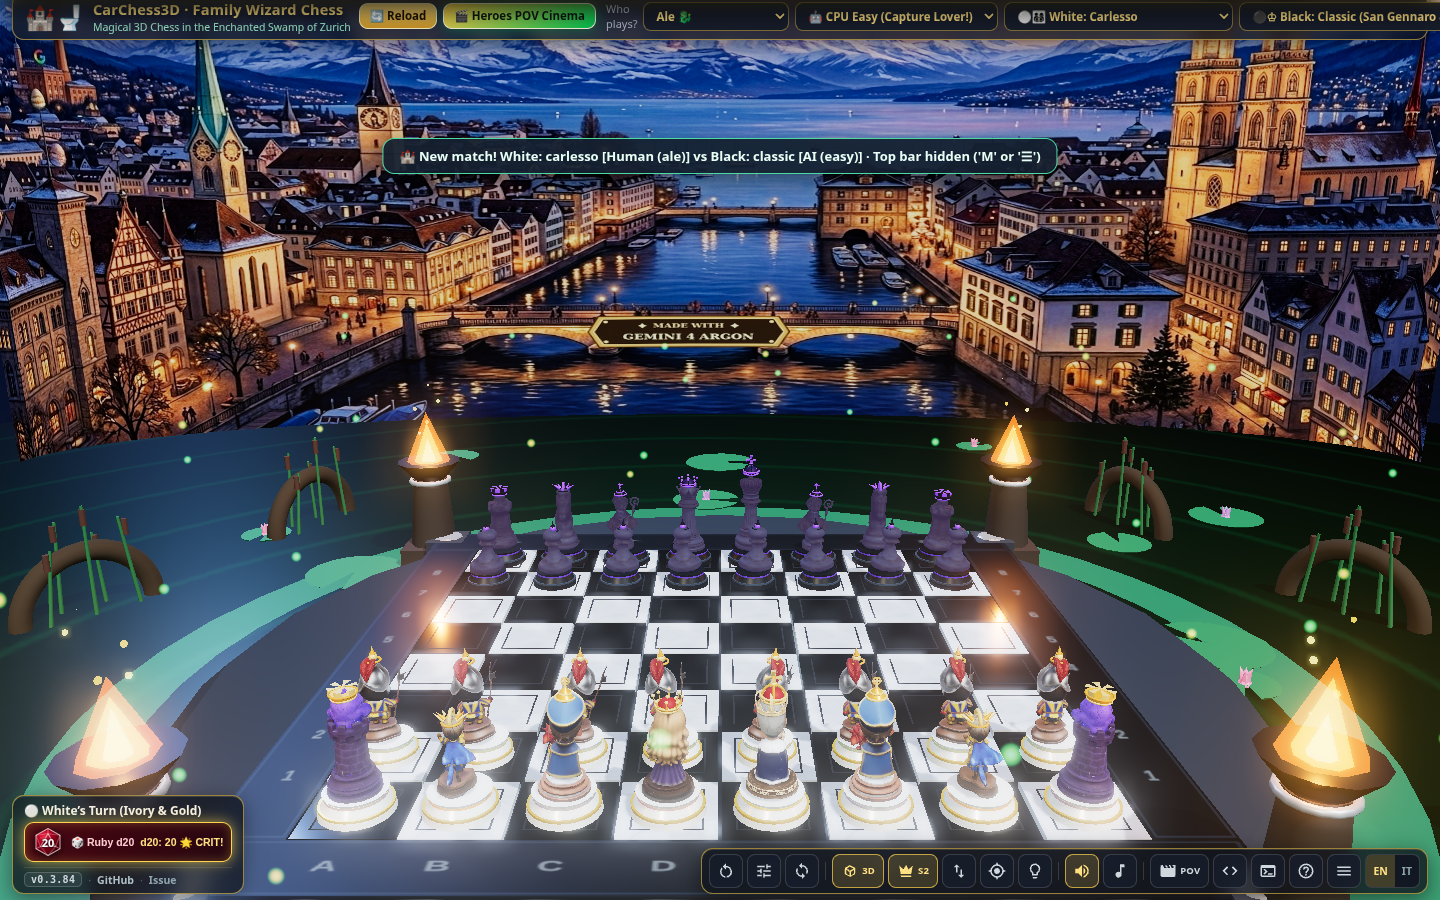
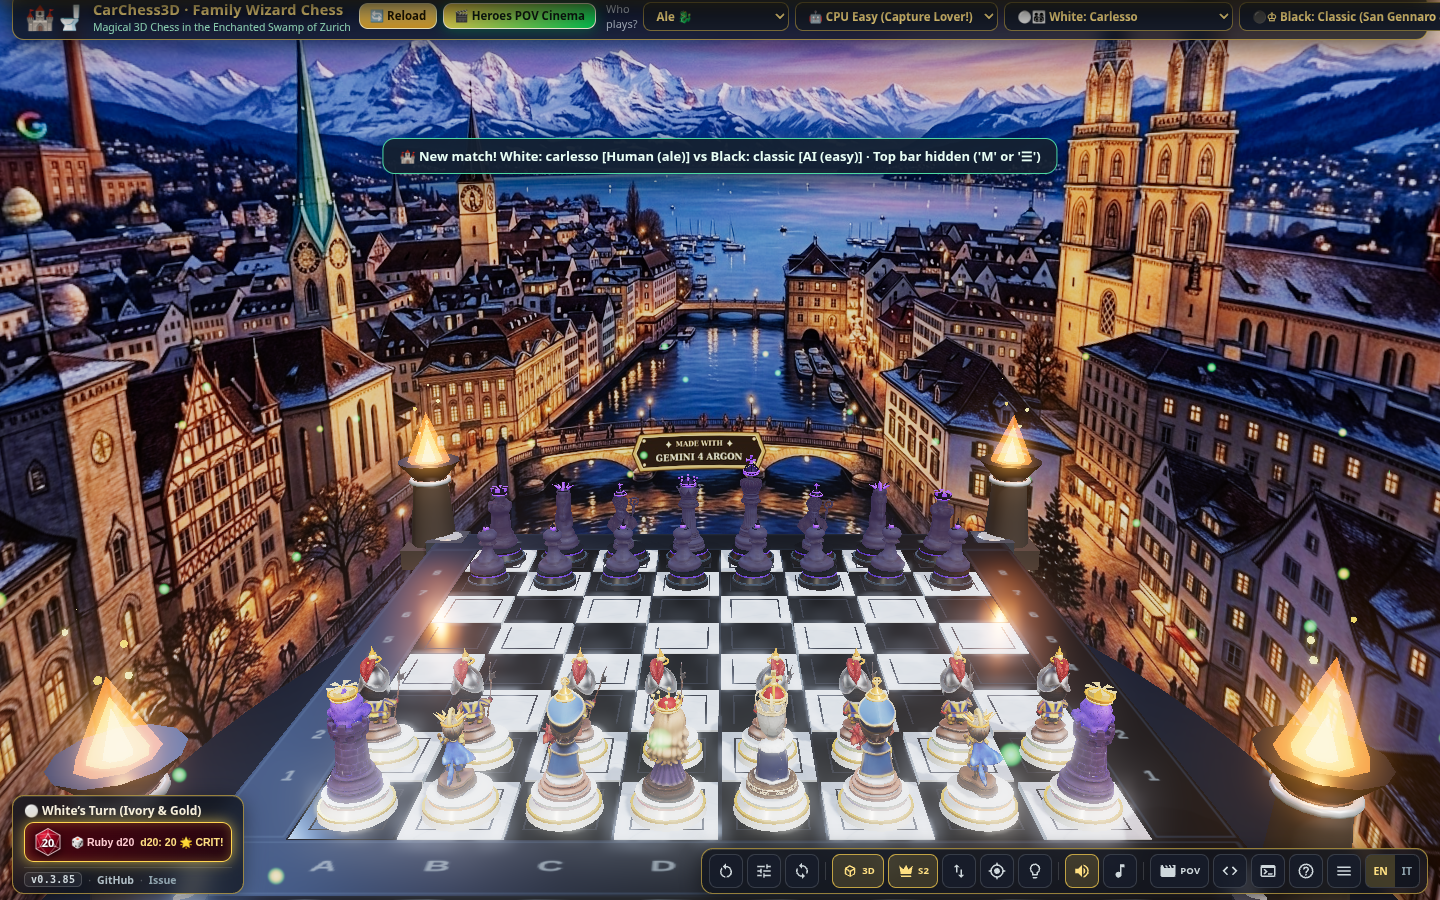
feat(zurich): v0.3.85 — full-screen 180-degree wrap-around Zurich cyclorama eliminating lower empty swamp void

diff --git a/src/views/ZurichSwampView.js b/src/views/ZurichSwampView.js
@@ -191,8 +191,8 @@ export class ZurichSwampView {
     altarGroup.name = 'CarvedStoneAltar';
     this.root.add(altarGroup);
 
-    // Stone Sanctuary Island (r = 6.5m, y = -0.55m .. -0.14m)
-    const islandGeo = new THREE.CylinderGeometry(6.35, 6.85, 0.42, 24);
+    // Stone Sanctuary Island tucked cleanly under the 9.6m x 9.6m foundation (y = -0.55m .. -0.14m)
+    const islandGeo = new THREE.CylinderGeometry(4.5, 4.7, 0.42, 24);
     islandGeo.translate(0, -0.35, 0);
     const islandMat = new THREE.MeshStandardMaterial({
       color: 0x2c3844,
@@ -679,6 +679,11 @@ export class ZurichSwampView {
 
       swampGroup.add(cluster);
     }
+
+    // Hide legacy flat green moat circle & brown torus arches so the full-screen
+    // J-curved Zurich & Limmat cyclorama fills the lower viewport without obstruction
+    swampGroup.visible = false;
+    this.swampGroup = swampGroup;
   }
 
   // ===========================================================================
@@ -760,7 +765,7 @@ export class ZurichSwampView {
   }
 
   // ===========================================================================
-  // 4. BACKGROUND FAIRY-TALE ZURICH SKYLINE & LIMMAT (z = -10.5m .. -26m)
+  // 4. FULL-SCREEN 180° J-CURVED ZURICH & LIMMAT INFINITY CYCLORAMA
   // ===========================================================================
 
   buildZurichSkylineAndAlps() {
@@ -768,16 +773,6 @@ export class ZurichSwampView {
     skyline.name = 'ZurichSkylineAndAlps';
     this.root.add(skyline);
 
-    // -------------------------------------------------------------------------
-    // 180-DEGREE CURVED FAIRYTALE ZURICH & SWISS ALPS PANORAMA CYCLORAMA
-    // ("Pannellone alto e largo a 180 gradi")
-    // Replaces all blocky 3D primitive boxes ("rettangoloni") with an unobstructed,
-    // high-resolution 180° semi-elliptical cyclorama featuring:
-    // - Fraumünster, St. Peter (golden clock face), Grossmünster Twin Towers
-    // - Limmat river & Münsterbrücke bridge with "MADE WITH GEMINI 4 ARGON" plaque
-    // - Distant Google Zurich Hürlimann Areal & red-brick Hürlimann tower on the left hillside
-    // - Lake Zurich sailboats & snow-capped Swiss Alps under a starry twilight sky
-    // -------------------------------------------------------------------------
     let zurichTex = null;
     if (typeof document !== 'undefined') {
       try {
@@ -795,30 +790,49 @@ export class ZurichSwampView {
 
     const panoGroup = new THREE.Group();
     panoGroup.name = 'ZurichFairytalePanoramaBackdrop';
-    // Ground bottom of the 12.8m-tall panorama at y = -0.46m (flush with the y = -0.45m water surface)
-    // up to y = +12.34m so the entire 180° skyline, bridge, churches, Hürlimann tower & Alps fill the view!
-    const panoHeight = 12.8;
-    const panoBottomY = -0.46;
-    panoGroup.position.set(0, panoBottomY + panoHeight * 0.5, 0);
+    panoGroup.position.set(0, 0, 0);
 
+    // Full-screen 180° wrap-around vertical cyclorama (64 horizontal x 16 vertical segments):
+    // Pure vertical walls (vx, vz depend ONLY on u; vy depends ONLY on v -> zero diagonal stretching!)
+    // wrapping from the front-left (z = +2.5m) around the back of the chessboard (z = -12.4m)
+    // to the front-right (z = +2.5m), extending down to y = -4.2m .. -6.8m so 100% of the viewport
+    // (top, sides, and bottom around the chessboard) is filled by the Zurich panorama!
     const segsX = 64;
-    const segsY = 1;
-    const panoGeo = new THREE.PlaneGeometry(1.0, panoHeight, segsX, segsY);
+    const segsY = 16;
+    const panoGeo = new THREE.PlaneGeometry(1.0, 1.0, segsX, segsY);
     const posAttr = panoGeo.attributes.position;
     const uvAttr = panoGeo.attributes.uv;
 
-    // 180-degree semi-elliptical arc (theta = 0 .. PI) wrapping from West (-X) through North (-Z) to East (+X)
-    const radiusX = 16.4;
-    const baseZ = -11.4;
-    const depthZ = 5.4; // Center reaches z = -16.8m, flanks wrap forward to z = -11.4m
+    const radiusX = 11.8;
+    const frontZ = 2.5;
+    const backZ = -12.4;
 
     for (let i = 0; i < posAttr.count; i++) {
       const u = uvAttr.getX(i); // 0.0 (West / Left) -> 1.0 (East / Right)
-      const theta = u * Math.PI; // Full 180° arc (0 .. PI radians)
-      const vx = -Math.cos(theta) * radiusX;
-      const vz = baseZ - Math.sin(theta) * depthZ;
-      posAttr.setX(i, vx);
-      posAttr.setZ(i, vz);
+      const v = uvAttr.getY(i); // 0.0 (Bottom river) -> 1.0 (Top sky)
+
+      // Smooth linear+cubic angular mapping across 0 .. PI: preserves natural 1:1 horizontal
+      // proportions in the center (so the Münsterbrücke 'MADE WITH GEMINI 4 ARGON' plaque is
+      // never squeezed) while wrapping the outer flanks forward to z = +2.8m around the board!
+      const centered = (u - 0.5) * 2.0; // -1.0 .. +1.0
+      const shaped = 0.80 * centered + 0.20 * centered * centered * centered;
+      const theta = (0.5 + 0.5 * shaped) * Math.PI; // 0 .. PI
+
+      const sinT = Math.sin(theta);
+      const cosT = Math.cos(theta);
+
+      const vx = -cosT * radiusX;
+      const vz = frontZ + (backZ - frontZ) * Math.pow(sinT, 0.78);
+
+      // Vertical range: at back-center (sinT = 1), y spans -2.95m .. +10.85m so the Münsterbrücke
+      // bridge (v ≈ 0.20) sits cleanly above the Black King & Queen crowns and the bottom (v = 0)
+      // tucks behind the chessboard altar; toward the front flanks (sinT -> 0), the bottom extends
+      // down to -6.8m so the bottom-left and bottom-right screen corners are 100% covered!
+      const bottomY = -2.95 - (1.0 - sinT) * 3.85;
+      const topY = 10.85 + (1.0 - sinT) * 1.15;
+      const vy = bottomY + v * (topY - bottomY);
+
+      posAttr.setXYZ(i, vx, vy, vz);
     }
     panoGeo.computeVertexNormals();
 
@@ -833,7 +847,6 @@ export class ZurichSwampView {
     panoMesh.name = 'ZurichPanorama180Cyclorama';
     panoGroup.add(panoMesh);
 
-    // Subtle dark-gold top & water-level rim trim along the 180° cyclorama arc
     skyline.add(panoGroup);
     this.panoMesh = panoMesh;
     this.panoMaterial = panoMat;
@@ -880,7 +893,8 @@ export class ZurichSwampView {
       if (
         !child.isLight &&
         child.name !== 'CarvedStoneAltar' &&
-        child.name !== 'BoardHighlights'
+        child.name !== 'BoardHighlights' &&
+        child.name !== 'EnchantedSwampMoat'
       ) {
         this._dioramaGroups.push(child);
       }

diff --git a/src/core/Registry.js b/src/core/Registry.js
@@ -13,7 +13,7 @@
 
 import { CANONICAL_PIECE_HEIGHTS } from '../utils/glbGrounding.js';
 
-export const APP_VERSION = '0.3.84';
+export const APP_VERSION = '0.3.85';
 export const GITHUB_REPO_URL = 'https://github.com/palladius/carchess3d';
 export const GITHUB_NEW_ISSUE_URL = 'https://github.com/palladius/carchess3d/issues/new';
 

diff --git a/sw.js b/sw.js
@@ -8,7 +8,7 @@
  *   `chess-strings-bg.mp3`, `combat-suspense.mp3`, `checkmate-jingle.mp3`, `voice-*.mp3`) on demand for offline play.
  */
 
-const CACHE_NAME = 'carchess3d-offline-v45';
+const CACHE_NAME = 'carchess3d-offline-v46';
 
 const PRECACHE_URLS = [
   './',

diff --git a/docs/spec/SPEC.md b/docs/spec/SPEC.md
@@ -373,15 +373,15 @@ is the "victim" and is removed at the end.
   - Replaced the `0 / 12` luck progress bar in the HUD with a **Solid Ruby-Marble 20-Sided Die (`d20`)** featuring a slightly-translucent solid ruby-red marble shell (`opacity: 0.92`) over a solid deep-ruby core (`opacity: 0.98`), rose-white marble veins, silver-white bevelled edges, and crisp engraved white numerals (`1..20`).
   - Rolling on every capture (`DROP_SPAWNED`, where `golden_crit` guarantees a Natural `20` and unlocks a sticker) or on demand via clicking `#hud-d20-btn` / pressing `D` (`D20_ROLL_REQUESTED` → `D20_ROLLED`) physically tumbles and bounces the 3D 20-sided icosahedron across the chessboard (`triggerRubyD20Roll`) and animates the HUD Ruby d20 gem badge.
 
-## Luxury Marble Chessboard & 180° Curved Zurich Panorama Cyclorama (`v0.3.84`)
+## Luxury Marble Chessboard & Full-Screen 180° Curved Zurich Panorama Cyclorama (`v0.3.84` → `v0.3.85`)
 
 - **Bianco Carrara & Nero Marquina Luxury Marble Chessboard (`src/views/ZurichSwampView.js`)**:
   - The 64 chessboard squares (`1.0m × 1.0m`, `y = 0.0m`) use polished **Bianco Carrara (`0xfafbfd`, roughness `0.18`)** and **Nero Marquina (`0x111317`, roughness `0.14`)** procedural 512×512 marble textures with dark obsidian grout seams (`0x141820`) and silver-platinum altar trim (`0xcfd8dc`), eliminating the legacy yellowish-cream tiles and golden square borders.
-- **180° Tall & Wide Curved Fairytale Zurich Panorama (`assets/environments/zurich_panorama.jpg`, `src/views/ZurichSwampView.js`, `src/views/VeoCinemaView.js`)**:
-  - Replaced all blocky 3D primitive skyline boxes (`BoxGeometry`) with an unobstructed **180-degree (`θ = 0 .. π`) semi-elliptical panoramic cyclorama (`height = 12.8m`, `radiusX = 16.4m`, `fog: false`)** grounded at the water surface (`y = -0.46m .. +12.34m`).
+- **Full-Screen 180° Wrap-Around Fairytale Zurich Panorama (`assets/environments/zurich_panorama.jpg`, `src/views/ZurichSwampView.js`, `src/views/VeoCinemaView.js`)**:
+  - Replaced all blocky 3D primitive skyline boxes (`BoxGeometry`) and hid the legacy flat green moat circle (`EnchantedSwampMoat`) in favor of an unobstructed **full-screen 180-degree (`θ = 0 .. π`) wrap-around vertical cyclorama (`radiusX = 11.8m`, `z = -12.4m .. +2.5m`, `y = -2.95m .. -6.80m` at bottom up to `+10.85m .. +12.00m` at top, `fog: false`)** that fills **100% of the screen from top to bottom and left to right** with zero empty lower void and zero floor stretching.
   - Features the Nanobanana twilight panorama of Zurich (`Fraumünster`, `St. Peter` golden clock face, `Grossmünster Twin Towers`, `Limmat River`, `Münsterbrücke`, `Lake Zurich`, and snow-capped `Swiss Alps`), plus two Easter Eggs:
     1. **Google Zurich Hürlimann Areal (`Brandschenkestrasse 110`)**: Historic red-brick brewery & tall red-brick Hürlimann chimney tower with a glowing Google `G` beacon on the distant left hillside behind the first buildings.
-    2. **`★ MADE WITH ★ / GEMINI 4 ARGON`**: Ornate golden cartouche mounted on the central arch of the Münsterbrücke bridge over the Limmat.
+    2. **`✦ MADE WITH ✦ / GEMINI 4 ARGON`**: Ornate golden cartouche mounted on the central arch of the Münsterbrücke bridge over the Limmat, positioned cleanly above the Black King & Queen crowns.
   - During normal chess play (`mode === 'idle'`, `cinemaBlend === 0`), `VeoMagicCinemaMirror` stays hidden (`visible = false`) so the 180° Zurich skyline is never obstructed, and smoothly materializes during capture battles and checkmates.
 
 ## Open Questions

diff --git a/CHANGELOG.md b/CHANGELOG.md
@@ -1,5 +1,10 @@
 # Changelog
 
+## [0.3.85] - 2026-10-18
+
+- 🖥🏔 **Full-Screen 180° Wrap-Around Zurich Cyclorama — Zero Lower Void (`src/views/ZurichSwampView.js`, `article/assets/zurich_180_*.png`)**:
+  - Enlarged and wrapped the 180° vertical Zurich cyclorama forward around the flanks of the chessboard (`z = -12.4m` at center to `z = +2.5m` at the West/East wings, `y = -2.95m .. -6.80m` at bottom up to `+10.85m .. +12.00m` at top) and hid the legacy flat green swamp moat circle (`EnchantedSwampMoat`) so the fairytale Zurich painting fills **100% of the screen from top to bottom and edge to edge**, completely eliminating the empty dark-green void around the bottom and sides of the board with zero texture distortion.
+
 ## [0.3.84] - 2026-10-17
 
 - 🏛♟ **Luxury Black & White Marble Chessboard (`src/views/ZurichSwampView.js`)**:
